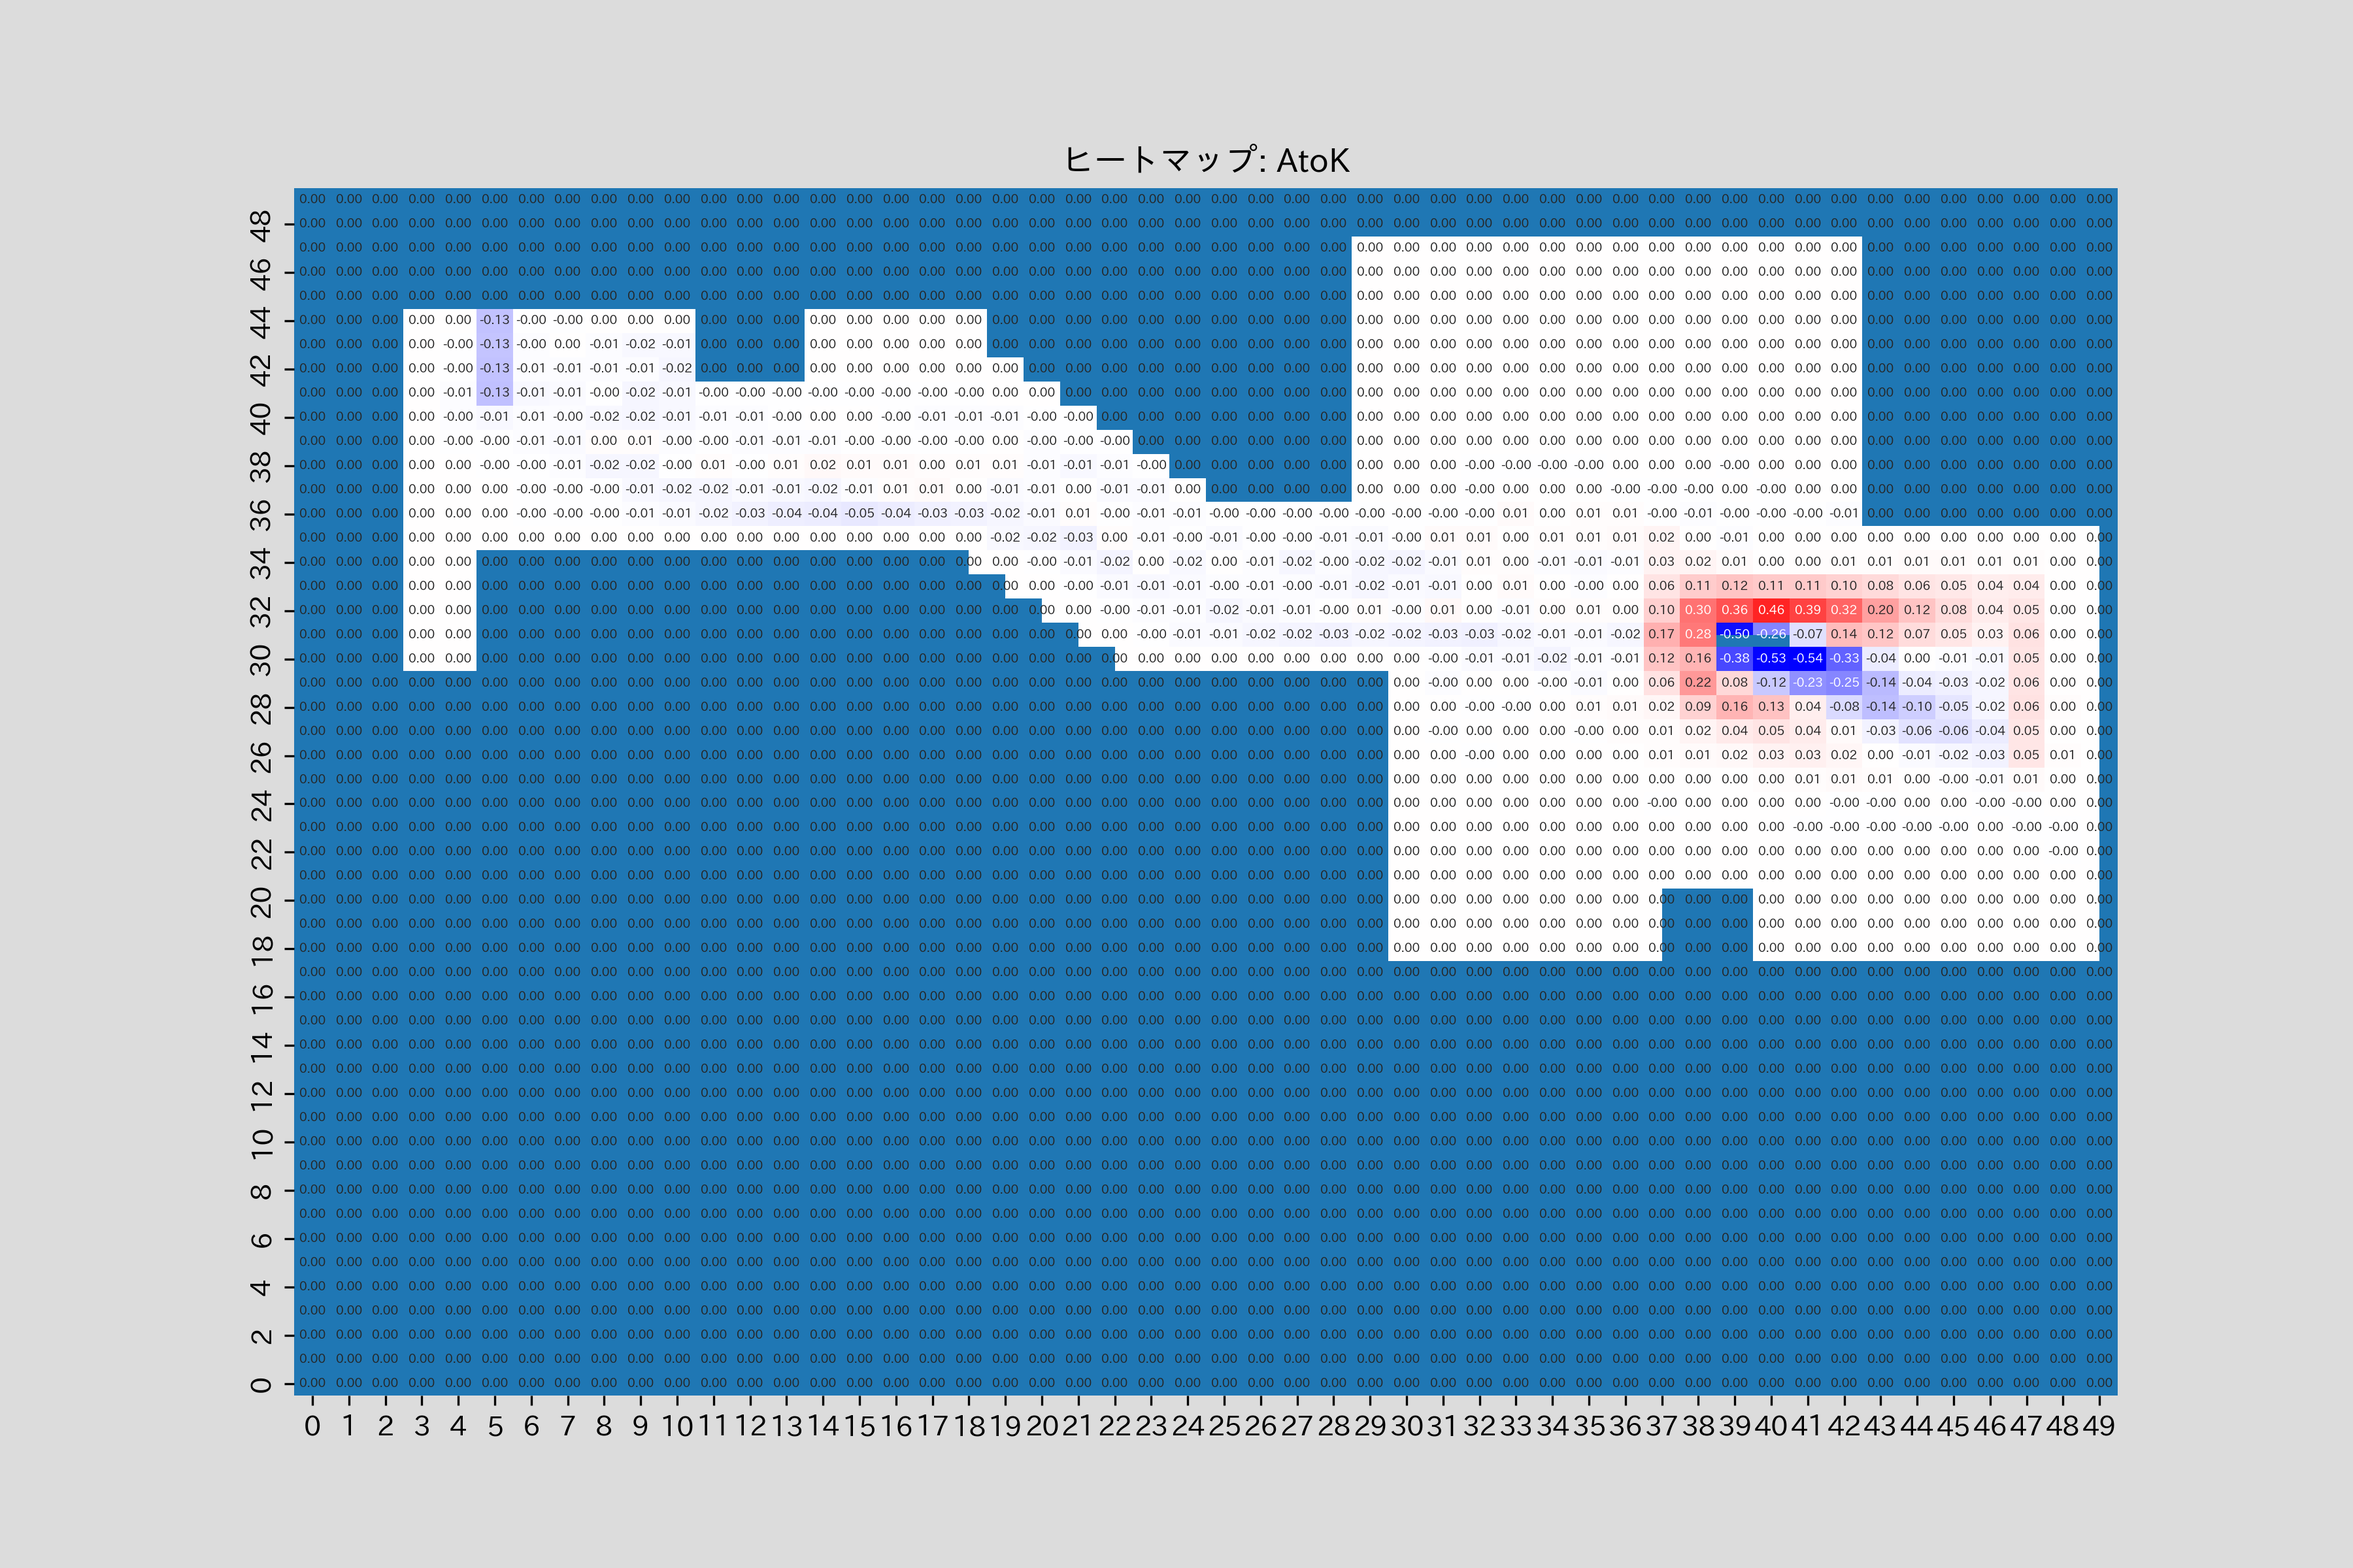
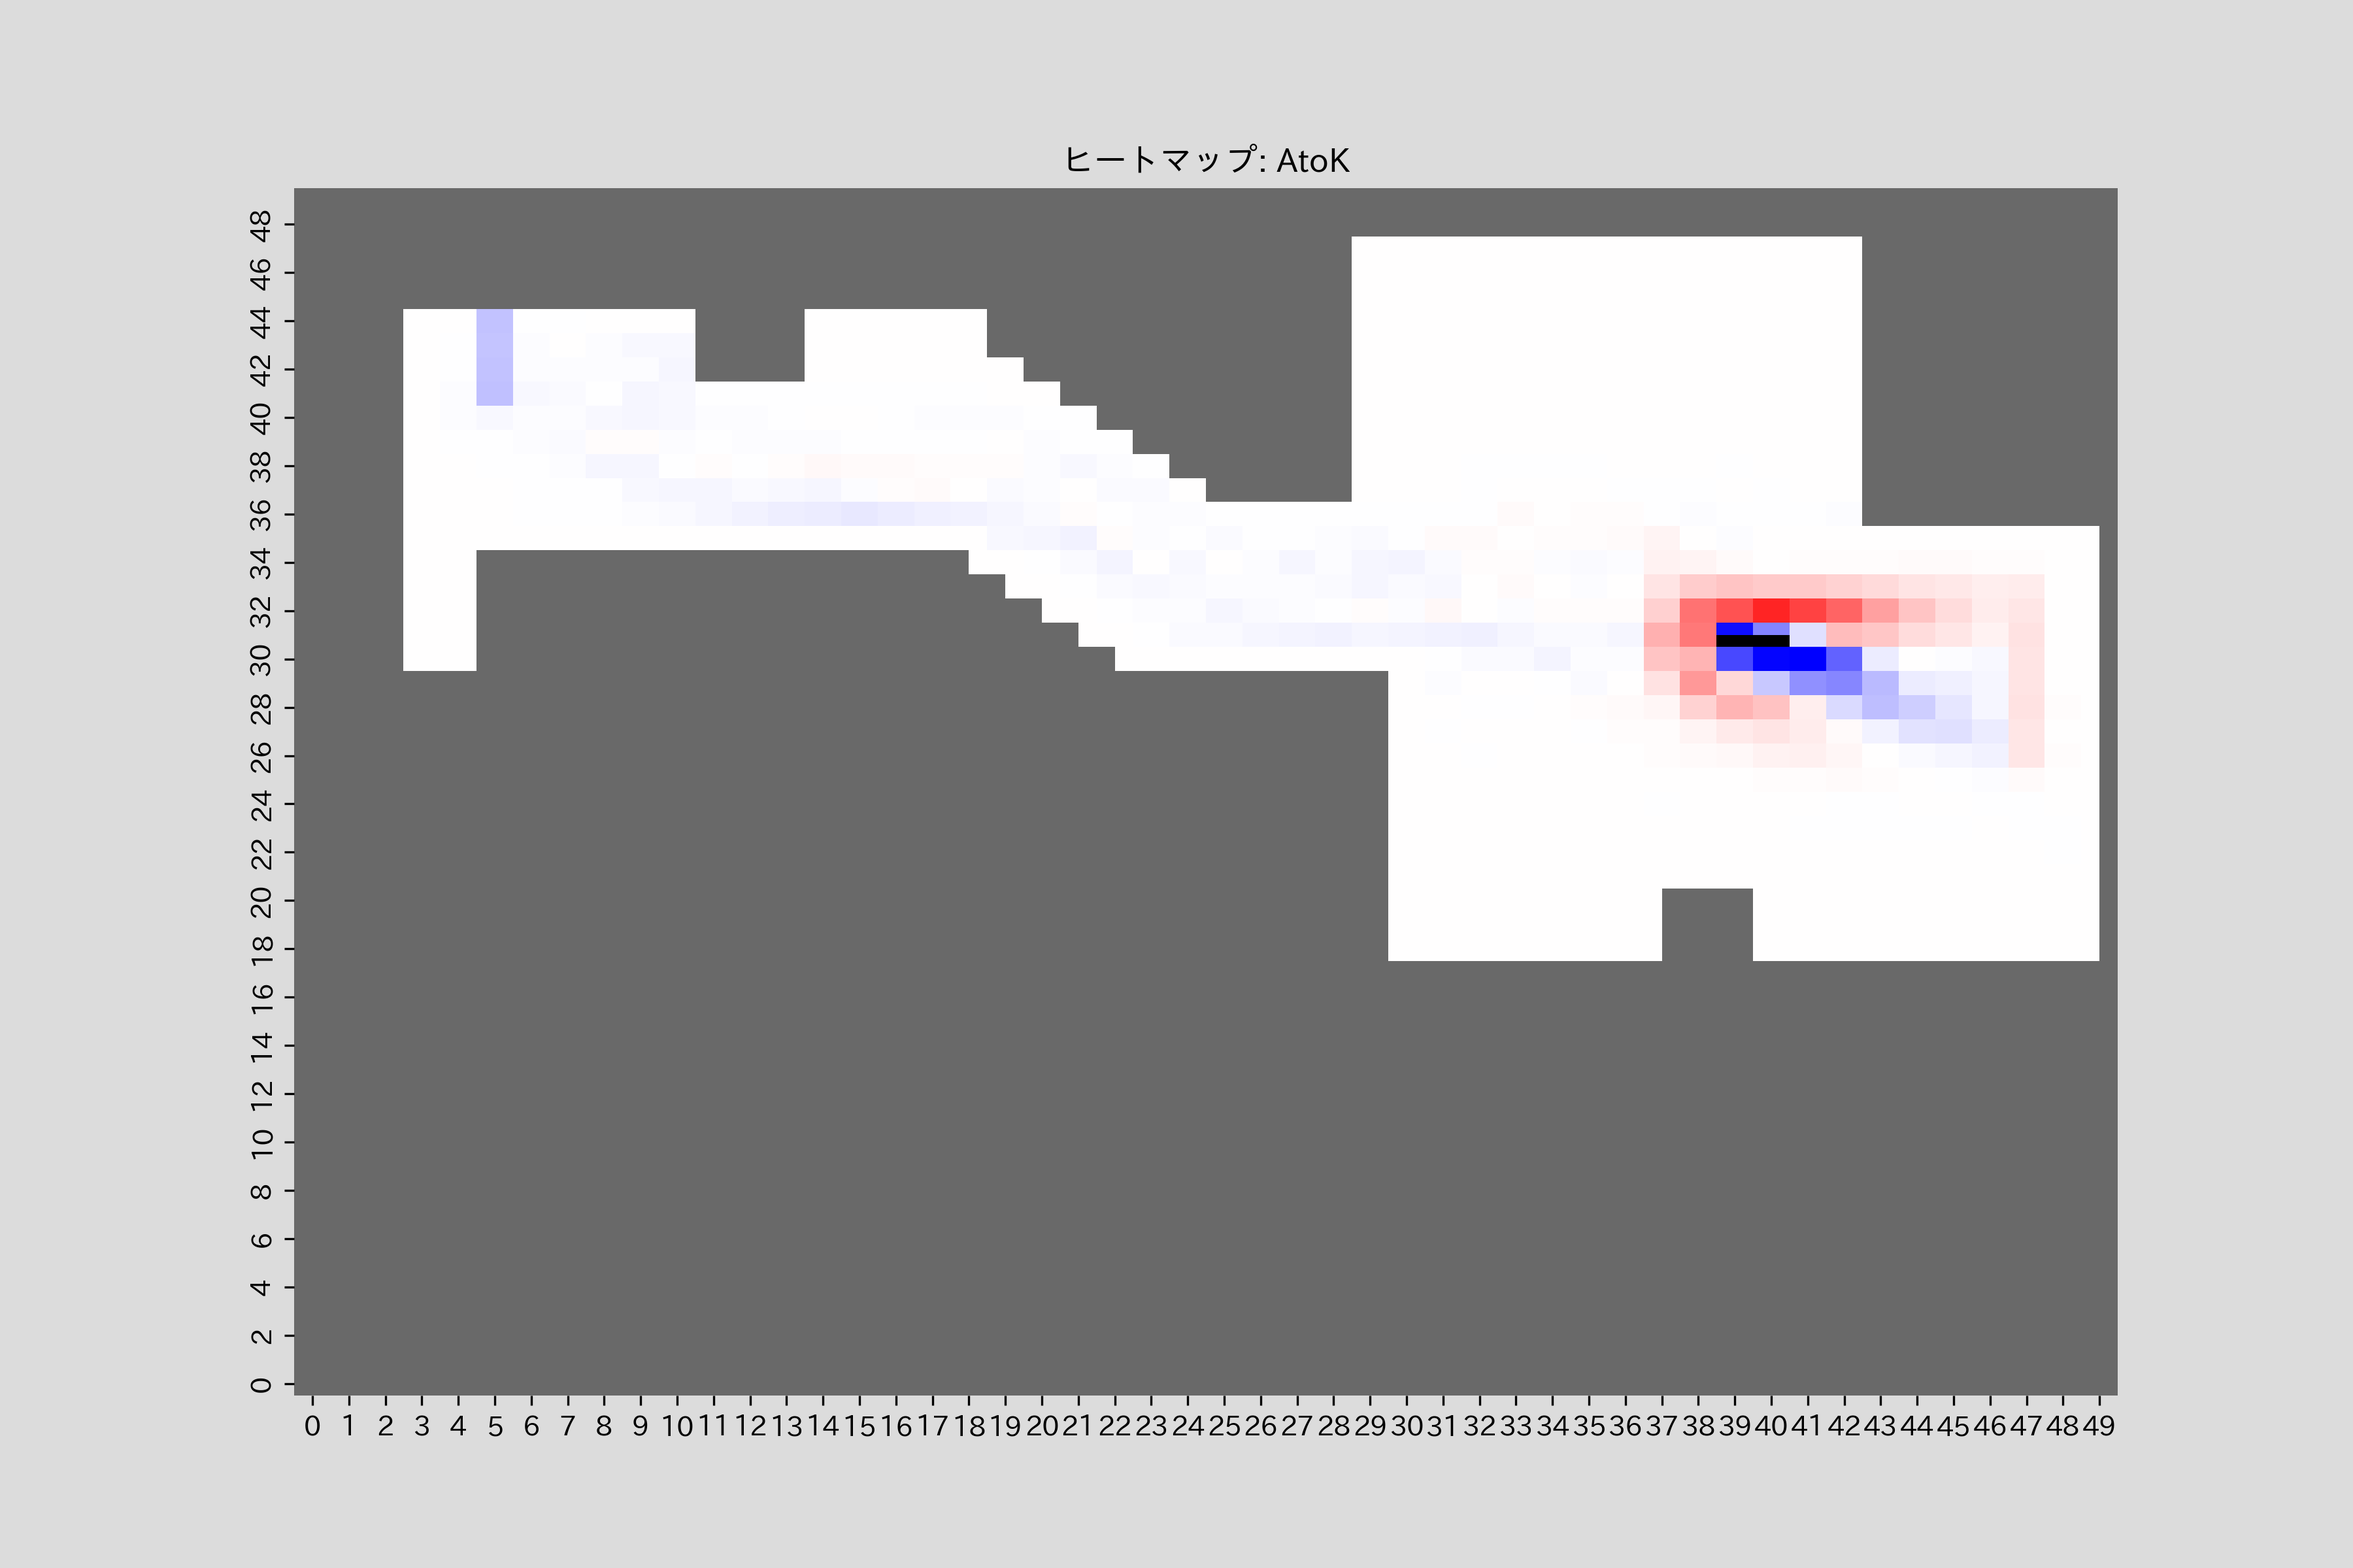
wall07のgap結果追加

diff --git a/plottingResult/gap_morning_latest.py b/plottingResult/gap_morning_latest.py
@@ -197,5 +197,5 @@ def CountZero(now):
 
 
 
-HeatmappingNumber(now, walls, now_string)
-# GappingHeatmapNew(now, walls, now_string)
+# HeatmappingNumber(now, walls, now_string)
+GappingHeatmapNew(now, walls, now_string)
